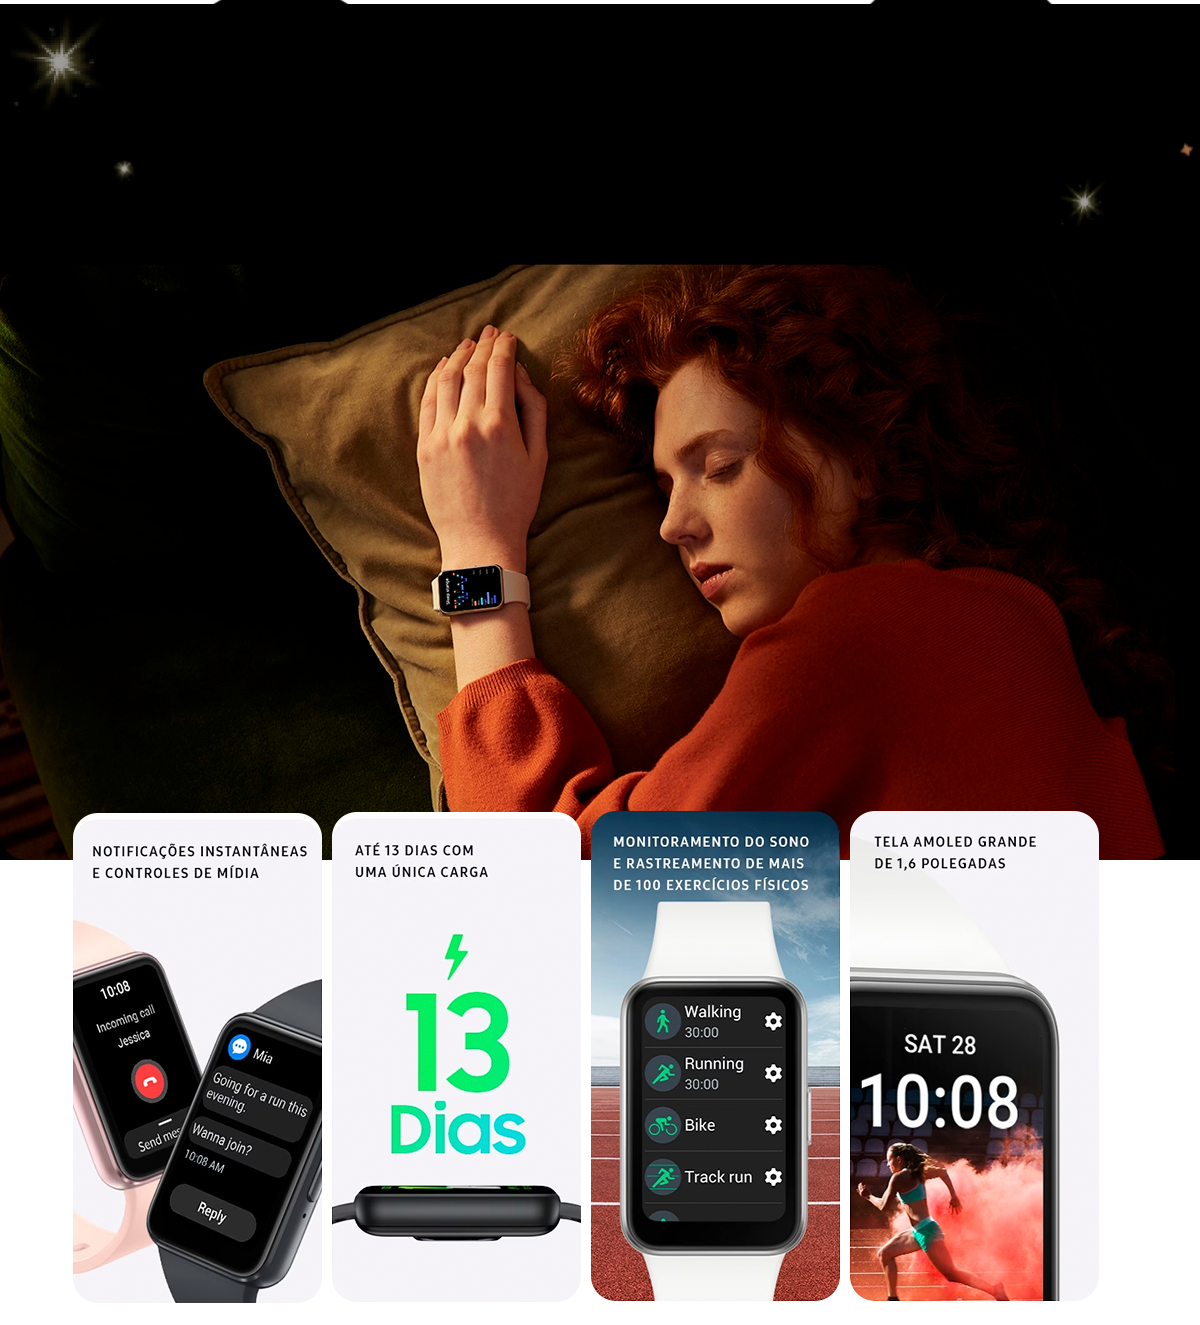
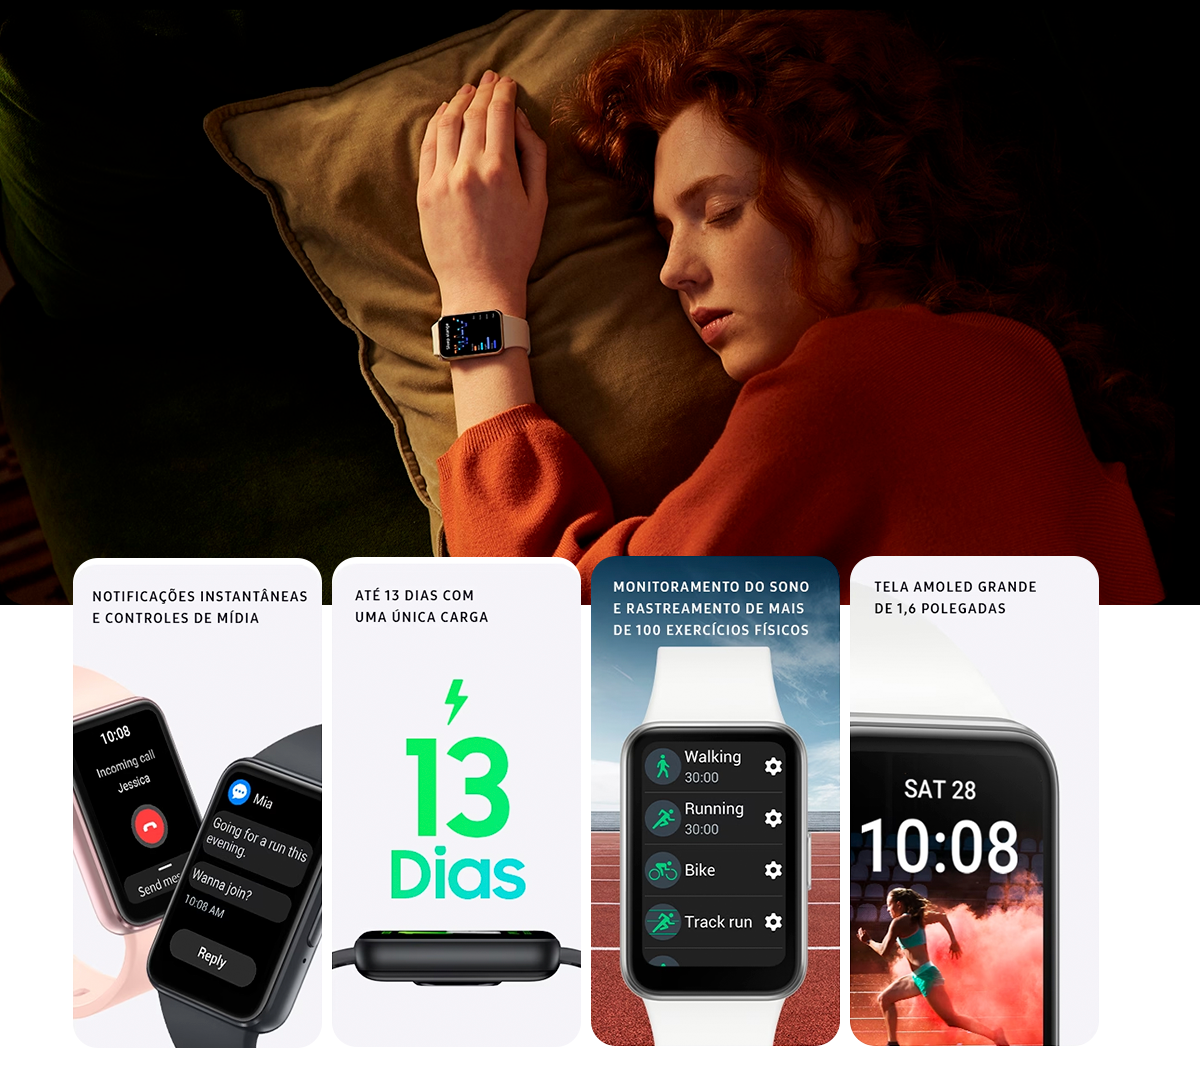
Alteração 121 e imagem

diff --git a/htmlBase/APK_GERAL/121-produto-feature-1-galaxyFit3.html b/htmlBase/APK_GERAL/121-produto-feature-1-galaxyFit3.html
@@ -53,22 +53,20 @@
         <!-- segunda linha-->
         <div class="row mx-auto text-center vertical-center">
             <!-- Primeira Coluna -->
-            <div class="col-md-12" style="position: absolute;">
-                <h3 class="text-white">
-                    <strong>
-                        Monitoramento<br/>
-                        de exercícios, do seu sono<br/>
-                        e conectividade no seu pulso
-                    </strong>
-                    </h3>
-                    <p class="box-paragraph text-center color-orange" style="z-index: 1; position: relative">
+            <div class="col-md-12">
+                <h3 class="color-branco">
+                    Monitoramento<br/>
+                    de exercícios, do seu sono<br/>
+                    e conectividade no seu pulso
+                </h3>
+                <p class="box-paragraph text-center color-orange">
                         Não pesa no pulso e monitora mais de 100 exercícios<br/>
                         e atividades diárias, inclusive o sono. Permite que você<br/>
                         troque música, verifique chamadas e envie mensagens<br/>
                         de texto diretamente do seu pulso. Fique conectado<br/>
                         e mantenha-se focado com o Galaxy Fit3.
                     </p>
-                    <img src="assets/img/galaxyFit3/galaxyfit3-monitoramento.png" style="margin-top: -180px; position: relative;" width="100%">
+                    <img src="assets/img/galaxyFit3/galaxyfit3-monitoramento.png">
                     <p class="box-tj color-branco">
                         Imagens ilustrativas. Produtos vendidos separadamente. Para mais informações sobre o produto consulte:<br/>
                         https://www.samsung.com/br/ . Ou consulte um vendedor.
